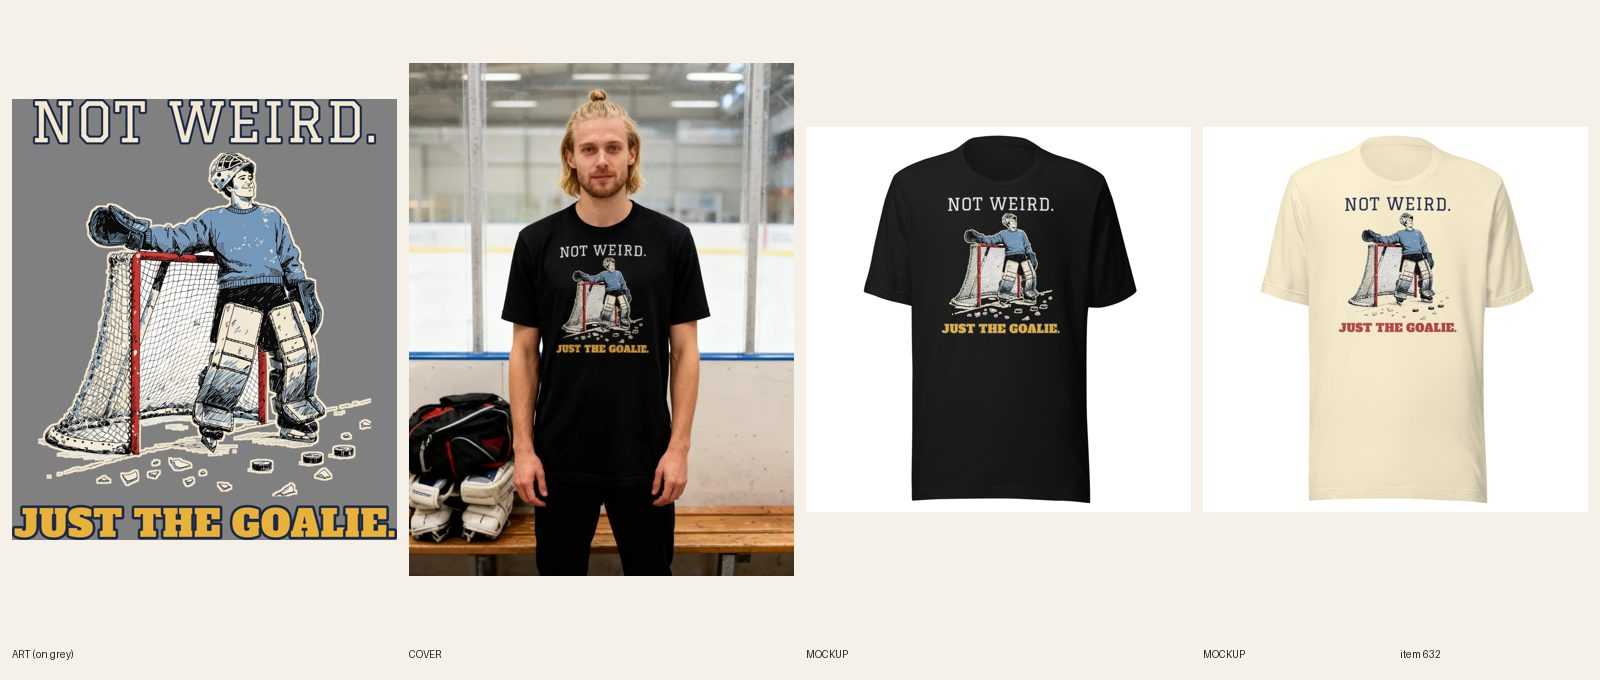
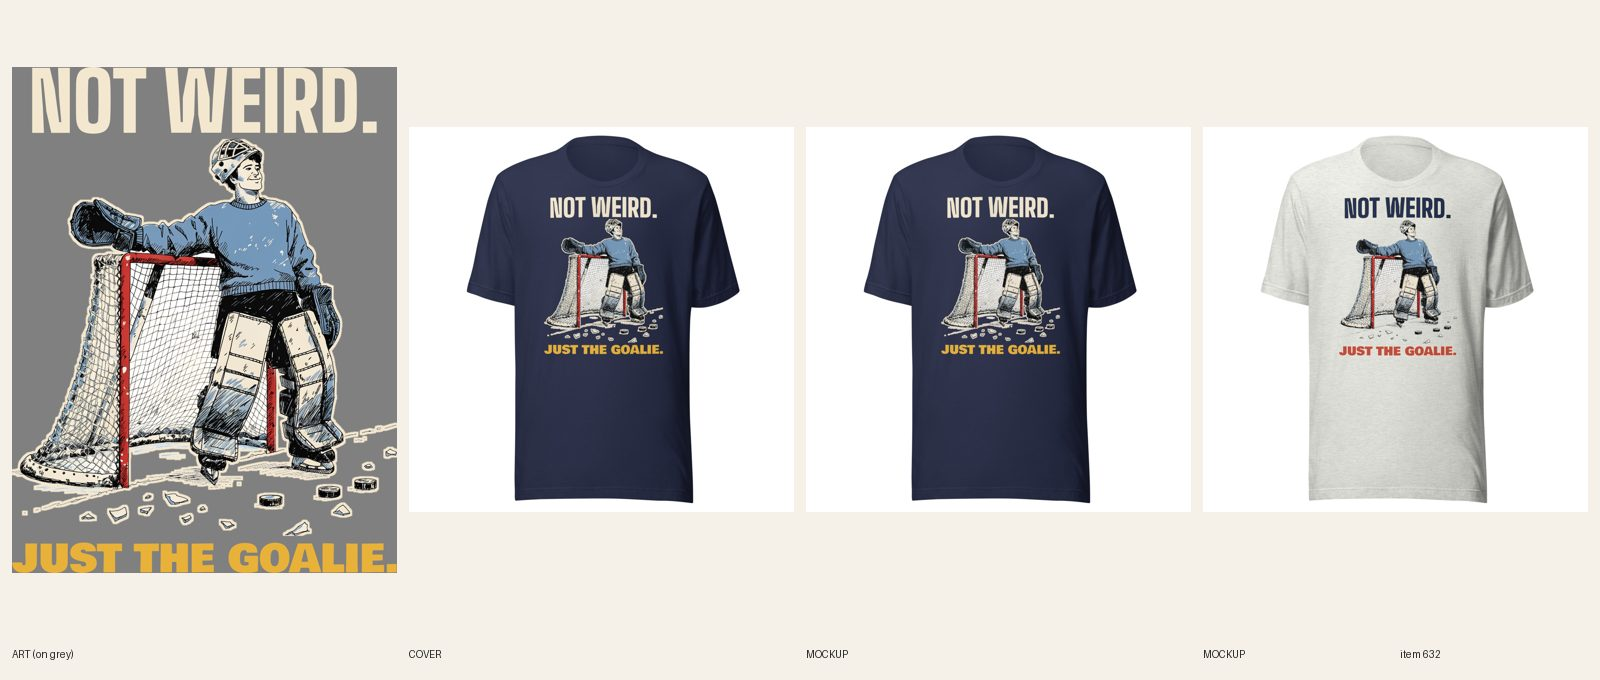
[E] review 632 Hockey Not Weird Just the Goalie tee (type redo)

diff --git a/designs/e632b/compose.py b/designs/e632b/compose.py
@@ -1,0 +1,29 @@
+#!/usr/bin/env python3
+"""#632 type redo: Big Shoulders Display Black NOT WEIRD. + Bowlby One JUST THE GOALIE. both at full art width. light file (dark blanks): cream + mustard; dark file (Natural, Ash, Athletic Heather): navy + red with cream keylines. Same goalie art."""
+import sys
+from PIL import Image, ImageDraw, ImageFont
+F = 'designs/fonts/'
+def line(text, font, fill, stroke, sfill, width, axes=None):
+    size = 80
+    while True:
+        f = ImageFont.truetype(F + font, size)
+        if axes: f.set_variation_by_axes(axes)
+        bb = f.getbbox(text, stroke_width=stroke)
+        if bb[2] - bb[0] >= width or size > 2400: break
+        size += 4
+    im = Image.new('RGBA', (bb[2] - bb[0] + 20, bb[3] - bb[1] + 20), (0, 0, 0, 0))
+    ImageDraw.Draw(im).text((10 - bb[0], 10 - bb[1]), text, font=f, fill=fill, stroke_width=stroke, stroke_fill=sfill)
+    return im.crop(im.getbbox())
+def build(src, rows, out, c1, c2, s1, s2, k):
+    art = Image.open(src).convert('RGBA').crop((0,) + (rows[0],) + (Image.open(src).width, rows[1])); art = art.crop(art.getbbox())
+    W = art.width
+    l1 = line('NOT WEIRD.', 'BigShouldersDisplay[wght].ttf', c1, k, s1, int(W * 0.91), [900])
+    l2 = line('JUST THE GOALIE.', 'BowlbyOne-Regular.ttf', c2, k, s2, W)
+    stack = [l1, art, l2]; gaps = [40, 50]
+    o = Image.new('RGBA', (max(i.width for i in stack), sum(i.height for i in stack) + sum(gaps)), (0, 0, 0, 0)); y = 0
+    for n, i in enumerate(stack):
+        o.alpha_composite(i, ((o.width - i.width) // 2, y)); y += i.height + (gaps[n] if n < 2 else 0)
+    o.save(out, dpi=(300, 300)); print(out, o.size, 'ratio', o.height / o.width, 'l2/l1', l2.height / l1.height)
+CREAM, MUSTARD, NAVY, RED = '#f3e7cf', '#e8b13a', '#1b2a4a', '#c24a3c'
+build('designs/e632/print_light.png', (440, 3470), 'designs/e632b/print_light.png', CREAM, MUSTARD, NAVY, NAVY, 0)
+build('designs/e632/print_dark.png', (430, 3450), 'designs/e632b/print_dark.png', NAVY, RED, CREAM, CREAM, 14)

diff --git a/docs/pipeline/632-hockey-tee-not-weird-just-the-goalie.md b/docs/pipeline/632-hockey-tee-not-weird-just-the-goalie.md
@@ -1,4 +1,4 @@
-status: BUILDING [E] 2026-10-19 21:31
+status: REVIEW
 lane: E
 type: new
 id: 632
@@ -31,3 +31,4 @@ kd: 16
 - 2026-10-18 16:16 UTC builder [E]: sync 56/56 confirmed. REVIEW.
 - 2026-10-18 16:22 UTC director: approved from docs/review/632.jpg. ACTIVE + Online Store/Headless/Google & YouTube, audit --handle PASS 0 warn. LIVE. Copy: 'whether they are eight' implied kids' sizes we don't sell (R8.6), now 'eighteen'; 'beer-league' now 'adult-league' (family-clean).
 - 2026-10-18 17:22 UTC director: QUALITY RESET grade B (type only), REDO. The product stays ACTIVE (same handle, URL, title keyword). Keep the line "Not Weird. / Just The Goalie." and the art. 1. Type: Headline thin light-weight slab, not heavy; second line fine. 2. Quality reset type bar (docs/backlog/quality-reset.md, 'The new bar'): headline at least 90% of the art width, heavy, colors pulled from the art; second line at least 45% of the headline's height, never a thin script on a dark or mid garment; use the lettering as a shape (arch, stacked lockup, words breaking into the art), not a plain bar above and a script line below; no font used on more than 1 in 6 of the last 30 designs. 3. New print file means a new cover per R6.10 and a fresh review sheet (R7.7). While quality-reset.md says PAUSED, only lane A builds, and only the samples step 2 names.
+- 2026-10-19 21:46 UTC builder [E]: REDO type-only done. Same goalie art (old text bars cropped off), new lockup designs/e632b/compose.py: NOT WEIRD. Big Shoulders Display Black (91% of art width) + JUST THE GOALIE. Bowlby One full art width (line 2 = 46% of headline height). Light file 1089919636 (cream + mustard, 14 px art halo kept) on Black, Navy, Dark Grey Heather, Heather Forest, Maroon; dark-ink file 1089919669 (navy + red, cream keyline) on Natural, Ash, Athletic Heather: light file logged, headline fill ink checked on each. FW 1650 TOP 75, 56/56 relinked and verified 7/7 per color. 8 fronts replaced in place in Shopify (back unchanged), Story + ink FAQ sentence updated. Cover: plain product shot (handle added to retired-covers.json). Phone-size read: both lines clear on Navy and Ash. fal $0. Sheet docs/review/632.jpg.

diff --git a/docs/intake-log.md b/docs/intake-log.md
@@ -1,6 +1,7 @@
 RUNNING lane A since 2026-10-19 21:29 UTC
 RUNNING lane B since 2026-10-19 21:28 UTC
 RUNNING lane E since 2026-10-19 21:14 UTC
+2026-10-19 21:46 UTC — [E] Builder run: redid #632 Men's Hockey Not Weird, Just the Goalie tee (type only: Big Shoulders Black + Bowlby One, light file 1089919636 / dark-ink file 1089919669, FW 1650 TOP 75, 56/56 relinked, 8 fronts replaced in place, copy updated, plain product shot). REVIEW. fal $0.
 2026-10-19 21:30 UTC — [E] Builder run: redid #579 Men's Grandpa Ask Your Grandmother tee (type only: Bowlby One cream + Bevan mustard full art width, same art, FW 1650 TOP 75, file 1089909197, 28/28 resynced, 4 fronts replaced in place, copy updated, plain product shot). REVIEW. fal $0.
 2026-10-19 21:23 UTC — [E] Builder run: redid #558 Women's Cat Not My Turn zip hoodie (type only: Bowlby One orange + Anton pink full art width, same art, back BW 1650, file 1089900083, 12/12 resynced, 4 mockups replaced in place, copy updated, plain product shot). REVIEW. fal $0.
 RUNNING director since 2026-10-19 21:11 UTC
